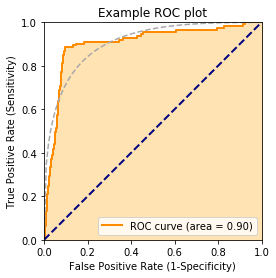
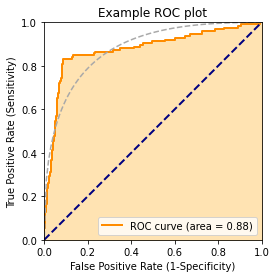
declare Python 3.9

diff --git a/pkg/setup.py b/pkg/setup.py
@@ -8,7 +8,7 @@ Simple utilities for teaching Pandas and scikit learn.
 
 setuptools.setup(
     name="wvpy",
-    version="0.2.3",
+    version="0.2.4",
     author="John Mount",
     author_email="jmount@win-vector.com",
     url="https://github.com/WinVector/wvpy",
@@ -26,6 +26,7 @@ setuptools.setup(
         "Programming Language :: Python :: 3.6",
         "Programming Language :: Python :: 3.7",
         "Programming Language :: Python :: 3.8",
+        "Programming Language :: Python :: 3.9",
         "License :: OSI Approved :: BSD License",
     ],
     long_description=LONG_DESCRIPTION,

diff --git a/pkg/build/lib/wvpy/__init__.py b/pkg/build/lib/wvpy/__init__.py
@@ -1,5 +1,5 @@
 __docformat__ = "restructuredtext"
-__version__ = "0.2.3"
+__version__ = "0.2.4"
 
 __doc__ = """
 This<https://github.com/WinVector/wvpy> is a package of example files for teaching data science.

diff --git a/pkg/wvpy/__init__.py b/pkg/wvpy/__init__.py
@@ -1,5 +1,5 @@
 __docformat__ = "restructuredtext"
-__version__ = "0.2.3"
+__version__ = "0.2.4"
 
 __doc__ = """
 This<https://github.com/WinVector/wvpy> is a package of example files for teaching data science.

diff --git a/README.md b/README.md
@@ -16,7 +16,7 @@ wvpy.__version__
 
 
 
-    '0.2.3'
+    '0.2.4'
 
 
 
@@ -34,8 +34,8 @@ wvpy.util.mk_cross_plan(10,2)
 
 
 
-    [{'train': [0, 3, 4, 6, 8], 'test': [1, 2, 5, 7, 9]},
-     {'train': [1, 2, 5, 7, 9], 'test': [0, 3, 4, 6, 8]}]
+    [{'train': [2, 4, 5, 6, 7], 'test': [0, 1, 3, 8, 9]},
+     {'train': [0, 1, 3, 8, 9], 'test': [2, 4, 5, 6, 7]}]
 
 
 
@@ -107,13 +107,15 @@ wvpy.util.plot_roc(
 
 
 
+    
 ![png](output_7_1.png)
+    
 
 
 
 
 
-    0.9017104802533561
+    0.8758830658271999
 
 
 
@@ -170,7 +172,9 @@ wvpy.util.threshold_plot(
 ```
 
 
+    
 ![png](output_9_0.png)
+    
 
 
 
@@ -186,7 +190,9 @@ wvpy.util.threshold_plot(
 ```
 
 
+    
 ![png](output_10_0.png)
+    
 
 
 
